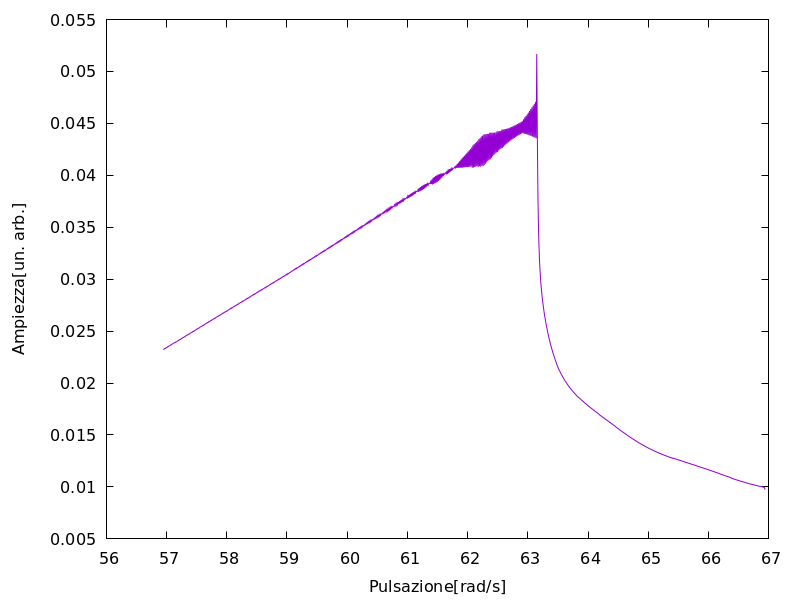
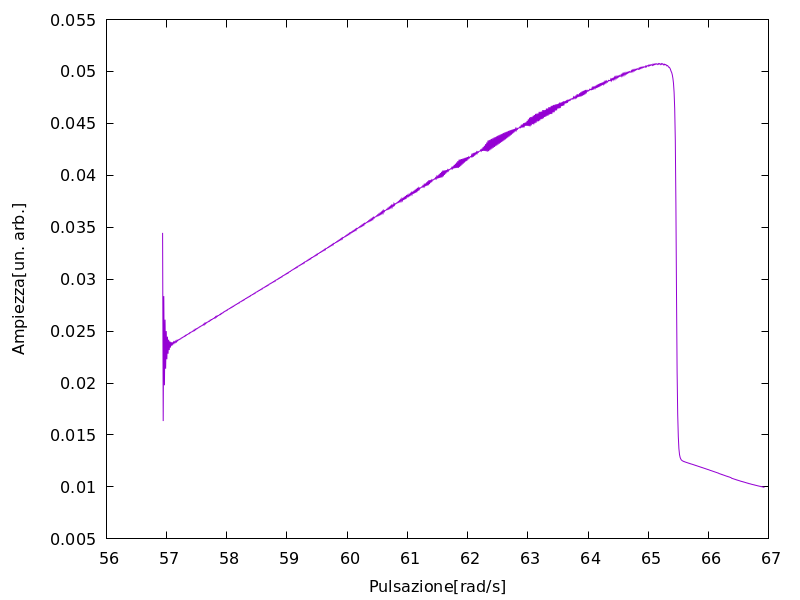
Changing readme

diff --git a/README.md b/README.md
@@ -1,1 +1,7 @@
-# corda-vibrante
+# Curva di risonanza corda vibrante
+
+Programma per calcolare la curva di risonanza nel caso in cui la frequenza di massimo dipenda dall'ampiezza, come succede nella corda vibrante.
+
+Si ottiene una curva piuttosto asimmetri
+
+![curva da destra](/risonanza_da_destra.png)
